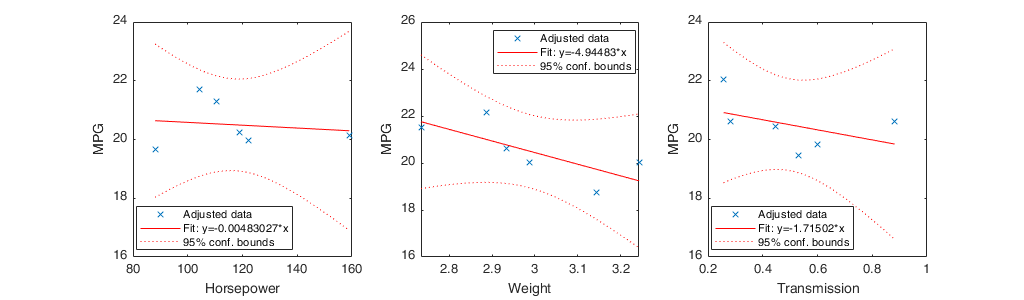
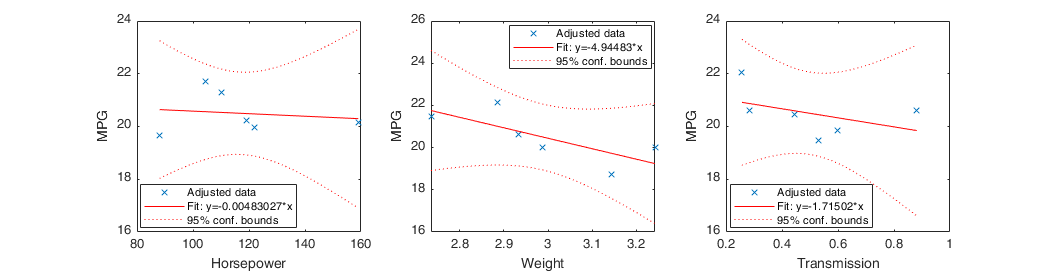
Updated GLM code

diff --git a/GLM/html/glm.html b/GLM/html/glm.html
@@ -6,7 +6,7 @@
    <!--
 This HTML was auto-generated from MATLAB code.
 To make changes, update the MATLAB code and republish this document.
-      --><title>glm</title><meta name="generator" content="MATLAB 9.8"><link rel="schema.DC" href="http://purl.org/dc/elements/1.1/"><meta name="DC.date" content="2021-10-25"><meta name="DC.source" content="glm.m"><style type="text/css">
+      --><title>glm</title><meta name="generator" content="MATLAB 9.8"><link rel="schema.DC" href="http://purl.org/dc/elements/1.1/"><meta name="DC.date" content="2021-10-26"><meta name="DC.source" content="glm.m"><style type="text/css">
 html,body,div,span,applet,object,iframe,h1,h2,h3,h4,h5,h6,p,blockquote,pre,a,abbr,acronym,address,big,cite,code,del,dfn,em,font,img,ins,kbd,q,s,samp,small,strike,strong,sub,sup,tt,var,b,u,i,center,dl,dt,dd,ol,ul,li,fieldset,form,label,legend,table,caption,tbody,tfoot,thead,tr,th,td{margin:0;padding:0;border:0;outline:0;font-size:100%;vertical-align:baseline;background:transparent}body{line-height:1}ol,ul{list-style:none}blockquote,q{quotes:none}blockquote:before,blockquote:after,q:before,q:after{content:'';content:none}:focus{outine:0}ins{text-decoration:none}del{text-decoration:line-through}table{border-collapse:collapse;border-spacing:0}
 
 html { min-height:100%; margin-bottom:1px; }
@@ -67,7 +67,8 @@ table td { padding:7px 5px; text-align:left; vertical-align:top; border:1px soli
 
 
 
-  </style></head><body><div class="content"><pre class="codeinput">Y = [21 21 22.8 21.4 18.7 18.1]';
+  </style></head><body><div class="content"><pre class="codeinput"><span class="comment">% Raw data</span>
+Y = [21 21 22.8 21.4 18.7 18.1]';
 
 X = [1 110 2.620 1; <span class="keyword">...</span>
      1 110 2.875 1; <span class="keyword">...</span>
@@ -76,6 +77,7 @@ X = [1 110 2.620 1; <span class="keyword">...</span>
      1 175 3.440 0; <span class="keyword">...</span>
      1 105 3.460 0];
 
+<span class="comment">% Estimate GLM</span>
 Beta        = inv(X' * X) * X' * Y;
 Yhat        = X * Beta;
 Residuals   = Y - Yhat;
@@ -83,14 +85,14 @@ Sigma2      = (Residuals' * Residuals) / (size(X,1) - size(X,2));
 Vcov        = Sigma2 * inv(X' * X);
 SE          = sqrt(diag(Vcov));
 
+<span class="comment">% Results table</span>
 Effects = {<span class="string">'Constant'</span>;<span class="string">'Horsepower'</span>;<span class="string">'Weight'</span>;<span class="string">'Transmission'</span>};
 Estimate = round(Beta,3);
 StandardError = round(SE,3);
-
 table(Estimate,StandardError,<span class="string">'RowNames'</span>,Effects)
 
-<span class="comment">% Statistics toolbox needed below here</span>
-figure(<span class="string">'Position'</span>, [100 100 1024 300])
+<span class="comment">% Plot results (Statistics toolbox needed)</span>
+figure(<span class="string">'Position'</span>, [100 100 1050 275])
 <span class="keyword">for</span> i = 1:3
     subplot(1,3,i);
     addedvarplot(X(:,2:4),Y,i,[true true true]);
@@ -113,6 +115,7 @@ ans =
 
 </pre><img vspace="5" hspace="5" src="glm_01.png" alt=""> <p class="footer"><br><a href="https://www.mathworks.com/products/matlab/">Published with MATLAB&reg; R2020a</a><br></p></div><!--
 ##### SOURCE BEGIN #####
+% Raw data
 Y = [21 21 22.8 21.4 18.7 18.1]';
 
 X = [1 110 2.620 1; ...
@@ -121,7 +124,8 @@ X = [1 110 2.620 1; ...
      1 110 3.215 0; ...
      1 175 3.440 0; ...
      1 105 3.460 0];
- 
+
+% Estimate GLM 
 Beta        = inv(X' * X) * X' * Y; 
 Yhat        = X * Beta;
 Residuals   = Y - Yhat;
@@ -129,14 +133,14 @@ Sigma2      = (Residuals' * Residuals) / (size(X,1) - size(X,2));
 Vcov        = Sigma2 * inv(X' * X);
 SE          = sqrt(diag(Vcov));
 
+% Results table
 Effects = {'Constant';'Horsepower';'Weight';'Transmission'};
 Estimate = round(Beta,3);
 StandardError = round(SE,3);
-
 table(Estimate,StandardError,'RowNames',Effects)
 
-% Statistics toolbox needed below here
-figure('Position', [100 100 1024 300])
+% Plot results (Statistics toolbox needed)
+figure('Position', [100 100 1050 275])
 for i = 1:3
     subplot(1,3,i);
     addedvarplot(X(:,2:4),Y,i,[true true true]);

diff --git a/GLM/glm.m b/GLM/glm.m
@@ -1,3 +1,4 @@
+% Raw data
 Y = [21 21 22.8 21.4 18.7 18.1]';
 
 X = [1 110 2.620 1; ...
@@ -6,7 +7,8 @@ X = [1 110 2.620 1; ...
      1 110 3.215 0; ...
      1 175 3.440 0; ...
      1 105 3.460 0];
- 
+
+% Estimate GLM 
 Beta        = inv(X' * X) * X' * Y; 
 Yhat        = X * Beta;
 Residuals   = Y - Yhat;
@@ -14,14 +16,14 @@ Sigma2      = (Residuals' * Residuals) / (size(X,1) - size(X,2));
 Vcov        = Sigma2 * inv(X' * X);
 SE          = sqrt(diag(Vcov));
 
+% Results table
 Effects = {'Constant';'Horsepower';'Weight';'Transmission'};
 Estimate = round(Beta,3);
 StandardError = round(SE,3);
-
 table(Estimate,StandardError,'RowNames',Effects)
 
-% Statistics toolbox needed below here
-figure('Position', [100 100 1024 300])
+% Plot results (Statistics toolbox needed)
+figure('Position', [100 100 1050 275])
 for i = 1:3
     subplot(1,3,i);
     addedvarplot(X(:,2:4),Y,i,[true true true]);
